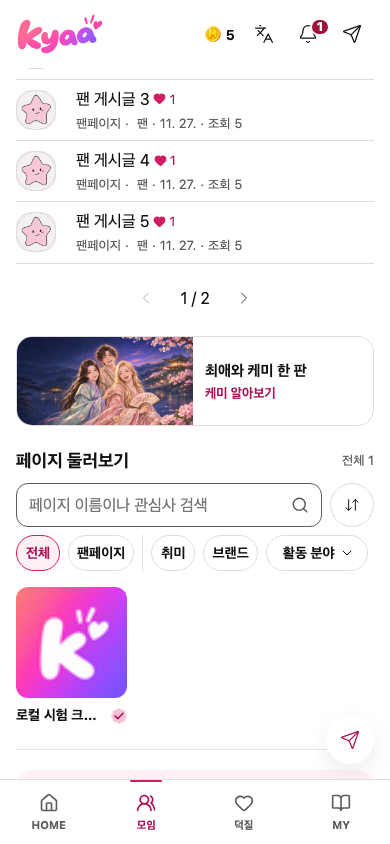
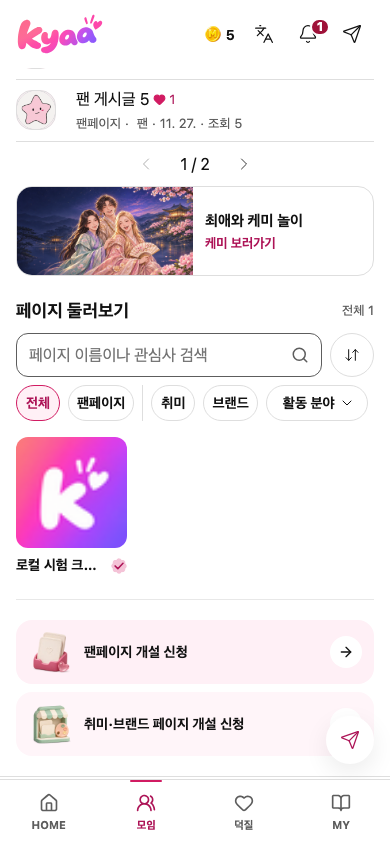
모임 휴대폰 Hot 목록과 홍보 카드 사이 페이지 줄 여백 제거

diff --git a/apps/web/features/groups/ui/directory-top.tsx b/apps/web/features/groups/ui/directory-top.tsx
@@ -143,7 +143,7 @@ export function HotPosts({ locale }: { locale: AppLocale }) {
           <FanPostRow locale={locale} columns="compact" href={postHref(post, locale)} title={firstLine(post.title)} thumbnail={post.asset ? post.source === "group" ? `/api/groups/media/${post.asset.id}?variant=thumbnail` : `/api/content-assets/${post.asset.id}?size=thumbnail` : null} avatar={post.avatarUrl} pageImage={<PostAvatar post={post} />} commentCount={post.commentCount}
             source={{ label: post.pageName, href: pageHref(post, locale) }} author={post.nickname} time={post.createdAt} views={post.viewCount} likes={post.likeCount} />
         </li>)}{total === 0 ? <li data-row="hot-empty"><FanState kind="empty" title={c.hotEmpty} /></li> : null}</>}</ul>}
-    {state.status === "error" ? null : <div className={styles.more}>{mobile ? <nav aria-label={c.hotTitle}><FanIconButton aria-label={paginationCopy(locale).previous} disabled={page === 0} onClick={() => setPage(0)}><ChevronLeft /></FanIconButton><span aria-current="page">{page + 1} / {Math.max(1, Math.ceil(total / ROWS))}</span><FanIconButton aria-label={paginationCopy(locale).next} disabled={(page + 1) * ROWS >= total} onClick={() => setPage(1)}><ChevronRight /></FanIconButton></nav> : <FanAction variant="neutral" disabled={total <= ROWS} aria-expanded={open} onClick={() => setOpen((value) => !value)}>{open ? c.collapse : c.expand}</FanAction>}</div>}
+    {state.status === "error" || (mobile && ready && total === 0) ? null : <div className={styles.more}>{mobile ? <nav aria-label={c.hotTitle}><FanIconButton aria-label={paginationCopy(locale).previous} disabled={page === 0} onClick={() => setPage(0)}><ChevronLeft /></FanIconButton><span aria-current="page">{page + 1} / {Math.max(1, Math.ceil(total / ROWS))}</span><FanIconButton aria-label={paginationCopy(locale).next} disabled={(page + 1) * ROWS >= total} onClick={() => setPage(1)}><ChevronRight /></FanIconButton></nav> : <FanAction variant="neutral" disabled={total <= ROWS} aria-expanded={open} onClick={() => setOpen((value) => !value)}>{open ? c.collapse : c.expand}</FanAction>}</div>}
   </section>;
 }
 

diff --git a/apps/web/features/groups/ui/directory-top.module.css b/apps/web/features/groups/ui/directory-top.module.css
@@ -18,7 +18,10 @@
 
 .hot { display: grid; margin-bottom: var(--fan-section-gap); }
 @media (width < 48rem) {
-  .hot:has(.more nav):has(+ .thin) { margin-bottom: var(--space-4); }
+  .hot:has(+ .thin) { margin-bottom: var(--space-2); }
+  .hot:has(.more nav):has(+ .thin) { margin-bottom: 0; }
+  .hot:has(+ .thin) .more { margin-top: 0; }
+  .hot:has(+ .thin) .state { min-height: 0; }
 }
 .hotHead { display: flex; align-items: center; justify-content: space-between; gap: var(--space-2); }
 .hotFilters { display: flex; align-items: center; gap: var(--space-2); }
